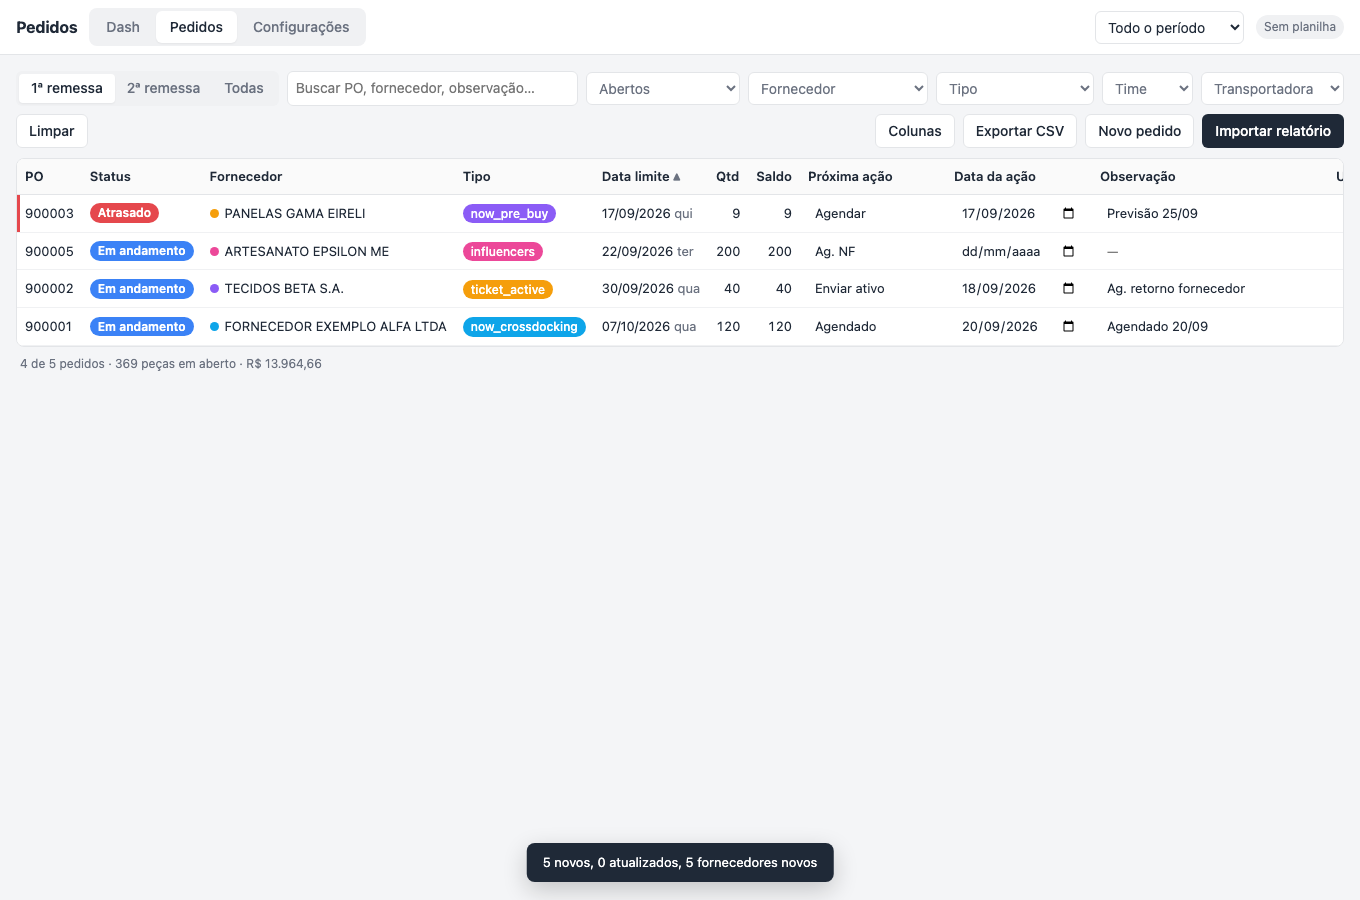
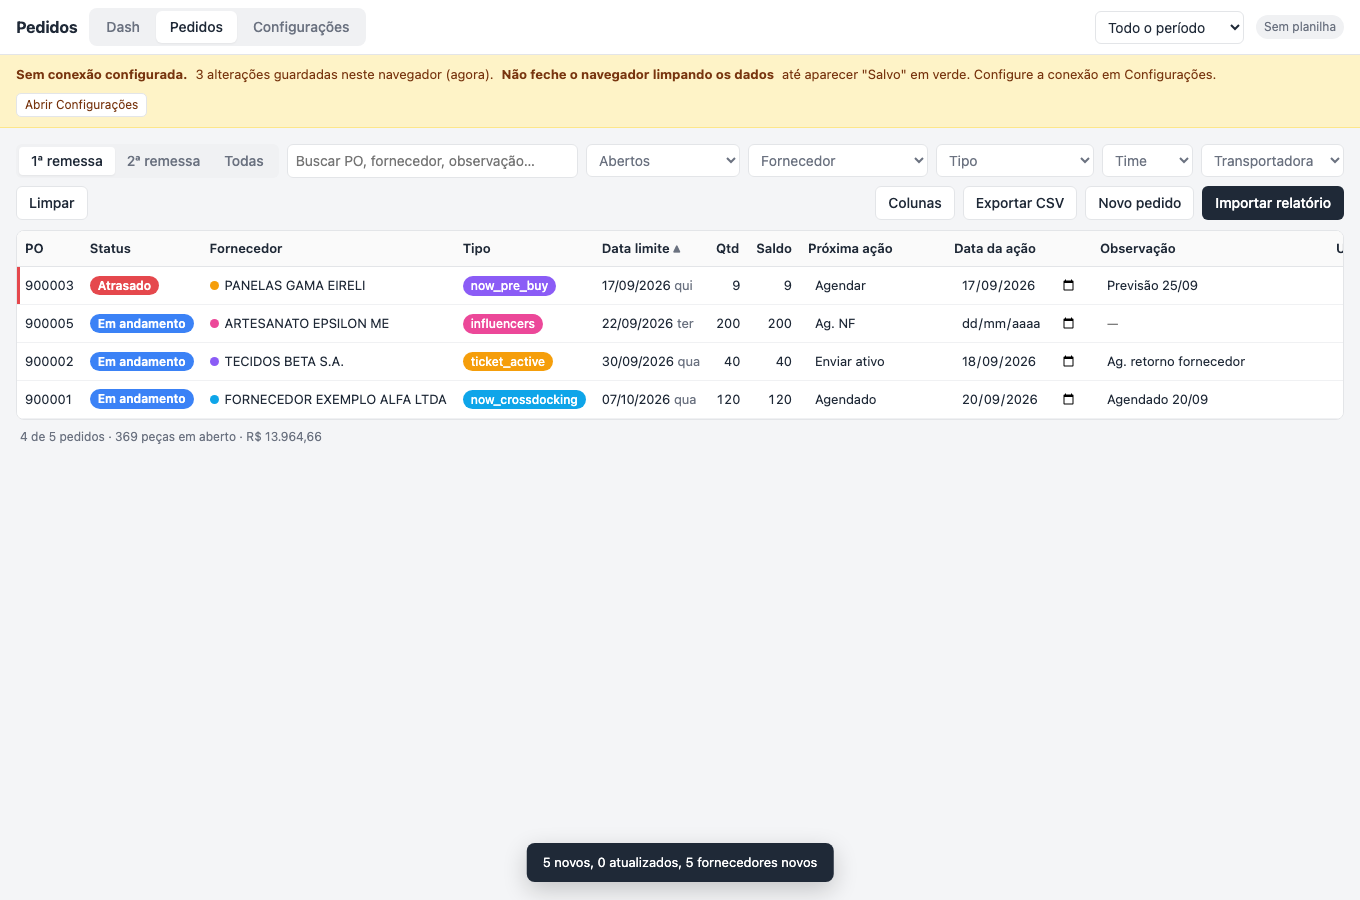
Avisos de sincronização: faixa de pendência/erro com motivo, guarda ao fechar, dica de spam, remetente nomeado
- classificação do erro (rede / chave / planilha / google / outro) com mensagem própria
- faixa no topo após 2 falhas ou 2 min de pendência; botões Tentar agora e Baixar cópia
- aviso do navegador ao fechar com alteração não gravada
- e-mail: name 'Sistema de Pedidos' + replyTo destino; dica de spam no app e no guia
- smoke: servidor HTTP simulado testa fila, POST com chave, leitura e cada tipo de erro (70 testes)

diff --git a/app.js b/app.js
@@ -44,12 +44,55 @@
   // ---------------- API / sincronização ----------------
   const conectado = () => !!(L.apiUrl && L.chave);
   let flushando = false, timerFlush = null;
+  // erros seguidos, tipo do último erro e quando a fila começou a acumular (S.filaDesde persiste)
+  const SY = { erros: 0, tipo: '', msg: '', forcarAviso: false };
+  const LIMIAR = { pendenteMs: 2 * 60000, erros: 2 };
 
   function setSync(cls, txt, title) { const el = $('#sync'); el.className = 'sync ' + cls; el.textContent = txt; el.title = title || ''; }
   function atualizarSync() {
-    if (!conectado()) return setSync('off', 'Sem planilha', 'Configure a conexão em Configurações');
-    if (S.fila.length) return setSync('pendente', S.fila.length + ' pendente' + (S.fila.length > 1 ? 's' : ''), 'Aguardando gravar na planilha');
-    setSync('ok', 'Salvo', S.ultimaSync ? 'Última sincronização: ' + S.ultimaSync : '');
+    if (!conectado()) setSync('off', 'Sem planilha', 'Configure a conexão em Configurações');
+    else if (S.fila.length && SY.erros) setSync('erro', 'Erro ao gravar · ' + S.fila.length + ' pendente' + (S.fila.length > 1 ? 's' : ''), SY.msg);
+    else if (S.fila.length) setSync('pendente', S.fila.length + ' pendente' + (S.fila.length > 1 ? 's' : ''), 'Aguardando gravar na planilha');
+    else setSync('ok', 'Salvo', S.ultimaSync ? 'Última sincronização: ' + S.ultimaSync : '');
+    renderAviso();
+  }
+
+  // rede (sem internet / bloqueio) · chave · planilha (setup) · google (respondeu HTML ou 5xx) · outro
+  function classificarErro(e) {
+    const m = String((e && e.message) || e || '');
+    if (e instanceof TypeError || /fetch|network|Load failed/i.test(m)) return 'rede';
+    if (/Chave inválida/i.test(m)) return 'chave';
+    if (/setup\(\)|não existe/i.test(m)) return 'planilha';
+    if (e instanceof SyntaxError || /JSON|Unexpected token|Resposta inválida/i.test(m)) return 'google';
+    return 'outro';
+  }
+  function registrarErro(e) {
+    SY.erros++; SY.tipo = classificarErro(e); SY.msg = String((e && e.message) || e || '');
+    console.warn('sincronização', SY.tipo, e);
+    if (SY.erros === 1 && S.fila.length) toast('Não consegui gravar na planilha. Guardei aqui e vou tentar de novo sozinho.', true);
+  }
+  function tempoDesde(ts) {
+    const min = Math.round((Date.now() - ts) / 60000);
+    return min < 1 ? 'agora' : min < 60 ? 'há ' + min + ' min' : 'há ' + Math.round(min / 60) + ' h';
+  }
+  function renderAviso() {
+    const el = $('#aviso'); if (!el) return;
+    const n = S.fila.length;
+    let mostrar = false, cls = 'amarelo', html = '';
+    const acoes = '<button class="btn-mini" data-aviso="tentar">Tentar agora</button> <button class="btn-mini" data-aviso="copia">Baixar cópia (CSV)</button>';
+    const guarda = n + (n === 1 ? ' alteração guardada' : ' alterações guardadas') + ' neste navegador' + (S.filaDesde ? ' (' + tempoDesde(S.filaDesde) + ')' : '') + '. <b>Não feche o navegador limpando os dados</b> até aparecer "Salvo" em verde.';
+    if (n && !conectado()) {
+      mostrar = true; html = '<b>Sem conexão configurada.</b> ' + guarda + ' Configure a conexão em Configurações. ' + '<button class="btn-mini" data-aviso="config">Abrir Configurações</button>';
+    } else if (n && (SY.forcarAviso || SY.erros >= LIMIAR.erros || (S.filaDesde && Date.now() - S.filaDesde > LIMIAR.pendenteMs))) {
+      mostrar = true;
+      if (SY.tipo === 'chave') { cls = 'vermelho'; html = '<b>A planilha recusou a chave de acesso.</b> ' + guarda + ' Confira a chave em Configurações → Conexão. <button class="btn-mini" data-aviso="config">Abrir Configurações</button> ' + acoes; }
+      else if (SY.tipo === 'planilha') { cls = 'vermelho'; html = '<b>A planilha não está preparada</b> (' + esc(SY.msg) + '). ' + guarda + ' Fale com um dev. ' + acoes; }
+      else if (SY.tipo === 'google') { cls = 'vermelho'; html = '<b>O Google não respondeu direito.</b> ' + guarda + ' Aguarde alguns minutos e tente novamente. Se continuar, fale com um dev. ' + acoes; }
+      else if (SY.tipo === 'outro') { cls = 'vermelho'; html = '<b>Erro ao gravar:</b> ' + esc(SY.msg) + '. ' + guarda + ' Aguarde e tente novamente. Se continuar, fale com um dev. ' + acoes; }
+      else { html = '<b>Sem internet ou a planilha não respondeu.</b> ' + guarda + ' Reenvio automático a cada 30 s. ' + acoes; }
+    }
+    el.className = 'aviso ' + cls + (mostrar ? '' : ' oculto');
+    if (mostrar) el.innerHTML = html;
   }
 
   async function apiGet(params) {
@@ -80,6 +123,7 @@
       else if (op.acao === 'log') ult.entradas = ult.entradas.concat(op.entradas);
       else S.fila.push(op);
     } else S.fila.push(op);
+    if (!S.filaDesde) S.filaDesde = Date.now();
     salvarLocal(); atualizarSync();
     clearTimeout(timerFlush); timerFlush = setTimeout(flush, 800);
   }
@@ -92,13 +136,12 @@
         const op = S.fila[0]; op.emVoo = true;
         const corpo = Object.assign({}, op); delete corpo.emVoo;
         await apiPost(corpo);
-        S.fila.shift(); salvarLocal(); atualizarSync();
+        S.fila.shift(); SY.erros = 0; SY.forcarAviso = false; salvarLocal(); atualizarSync();
       }
-      S.ultimaSync = new Date().toLocaleString('pt-BR'); salvarLocal(); atualizarSync();
+      S.filaDesde = 0; S.ultimaSync = new Date().toLocaleString('pt-BR'); salvarLocal(); atualizarSync();
     } catch (e) {
       if (S.fila[0]) S.fila[0].emVoo = false;
-      setSync('erro', 'Erro ao gravar', String(e.message || e));
-      console.warn('flush', e);
+      registrarErro(e); atualizarSync();
     } finally { flushando = false; }
   }
 
@@ -119,8 +162,9 @@
       if (!silencioso) toast('Sincronizado com a planilha');
       return true;
     } catch (e) {
+      const tipo = classificarErro(e);
       setSync('erro', 'Erro ao ler', String(e.message || e));
-      if (!silencioso) toast('Não consegui ler a planilha: ' + (e.message || e), true);
+      if (!silencioso) toast(tipo === 'rede' ? 'Sem internet ou a planilha não respondeu. Mostrando a última cópia guardada.' : tipo === 'chave' ? 'A planilha recusou a chave. Confira em Configurações.' : 'Não consegui ler a planilha (' + (e.message || e) + '). Aguarde e tente novamente; se continuar, fale com um dev.', true);
       return false;
     }
   }
@@ -690,7 +734,7 @@
       if (!conectado()) { msg.textContent = 'Configure a conexão primeiro.'; return; }
       if (!S.config.emailDestino) { msg.textContent = 'Informe o e-mail de destino.'; return; }
       msg.textContent = 'Enviando…';
-      try { await flush(); const r = await apiPost({ acao: 'testarEmail' }); msg.textContent = 'Enviado para ' + (r.para || S.config.emailDestino) + '.'; }
+      try { await flush(); const r = await apiPost({ acao: 'testarEmail' }); msg.textContent = 'Enviado para ' + (r.para || S.config.emailDestino) + '. Não apareceu? Olhe a pasta de spam e marque "Não é spam".'; }
       catch (e) { msg.textContent = 'Falhou: ' + (e.message || e); }
     });
     $('#c-acoes').addEventListener('change', e => { S.config.acoes = e.target.value.split('\n').map(s => s.trim()).filter(Boolean); salvarConfig(); renderDatalists(); });
@@ -793,6 +837,17 @@
       localStorage.removeItem(LS); location.reload();
     });
 
+    // aviso de pendências / erro
+    $('#aviso').addEventListener('click', e => {
+      const b = e.target.closest('button[data-aviso]'); if (!b) return;
+      if (b.dataset.aviso === 'tentar') { SY.forcarAviso = true; flush().then(() => { if (!S.fila.length) toast('Tudo gravado na planilha'); }); }
+      else if (b.dataset.aviso === 'copia') exportar(C.ordenar(S.pedidos, 'limite', 'asc', ctx()), 'pedidos-copia');
+      else if (b.dataset.aviso === 'config') { irPara('config'); $('#cfg-conexao').scrollIntoView(); }
+    });
+    $('#sync').addEventListener('click', () => { if (S.fila.length) { SY.forcarAviso = true; renderAviso(); flush(); } });
+    window.addEventListener('beforeunload', e => { if (S.fila.length && conectado()) { e.preventDefault(); e.returnValue = 'Há alterações ainda não gravadas na planilha.'; } });
+    setInterval(renderAviso, 30000);
+
     // sincronização periódica
     window.addEventListener('online', () => flush());
     setInterval(() => { if (S.fila.length) flush(); }, 30000);
@@ -810,5 +865,5 @@
   irPara(['dash', 'pedidos', 'config'].includes(abaInicial) ? abaInicial : (conectado() || S.pedidos.length ? UI.aba : 'config'));
   atualizarSync();
   if (conectado()) sincronizar(true);
-  window.SJO = { S, L, UI, sincronizar, flush }; // pra depuração no console
+  window.SJO = { S, L, UI, SY, LIMIAR, sincronizar, flush, renderAviso }; // pra depuração no console
 })();

diff --git a/tests/smoke.js b/tests/smoke.js
@@ -7,8 +7,16 @@ const CHROME = process.env.CHROME || '/Applications/Google Chrome.app/Contents/M
 const PORTA = 8765, DBG = 9333;
 const MIME = { '.html': 'text/html', '.js': 'text/javascript', '.css': 'text/css', '.csv': 'text/csv' };
 
+const API = { pedidos: [], posts: [] }; // planilha simulada por HTTP (pra testar a sincronização de verdade)
 const servidor = http.createServer((req, res) => {
-  const p = path.join(RAIZ, decodeURIComponent(req.url.split('?')[0]) === '/' ? 'index.html' : decodeURIComponent(req.url.split('?')[0]));
+  const u = decodeURIComponent(req.url.split('?')[0]);
+  if (u === '/api-chave') { res.writeHead(200, { 'Content-Type': 'application/json' }); return res.end(JSON.stringify({ ok: false, erro: 'Chave inválida' })); }
+  if (u === '/api-ok') {
+    if (req.method === 'POST') { let b = ''; req.on('data', d => b += d); req.on('end', () => { API.posts.push(JSON.parse(b)); res.writeHead(200, { 'Content-Type': 'application/json' }); res.end(JSON.stringify({ ok: true })); }); return; }
+    res.writeHead(200, { 'Content-Type': 'application/json' });
+    return res.end(JSON.stringify({ ok: true, pedidos: API.pedidos, fornecedores: [], transportadoras: [], tags: [], config: { emailDestino: 'x@y.z' } }));
+  }
+  const p = path.join(RAIZ, u === '/' ? 'index.html' : u);
   fs.readFile(p, (e, d) => { if (e) { res.writeHead(404); res.end(); return; } res.writeHead(200, { 'Content-Type': MIME[path.extname(p)] || 'text/plain' }); res.end(d); });
 }).listen(PORTA);
 
@@ -154,10 +162,48 @@ async function json(url) { const r = await fetch(url); return r.json(); }
   t('extra visível na tabela', await ev(`document.querySelectorAll('#tabela-corpo input[data-k="x:coluna_nova"]').length`) >= 1);
   t('obs ainda preservada', await ev(`SJO.S.pedidos.find(p=>p.po==='900001').obs`) === 'Agendado 20/09');
 
+  // sincronização: erro de rede → banner amarelo
+  await ev(`SJO.L.apiUrl = 'http://127.0.0.1:1/'; SJO.L.chave = 'x'; SJO.LIMIAR.erros = 1; 'ok'`);
+  await ev(`SJO.flush()`);
+  t('pill erro', /Erro ao gravar/.test(await ev(`document.querySelector('#sync').textContent`)));
+  t('banner rede visível', await ev(`!document.querySelector('#aviso').classList.contains('oculto') && document.querySelector('#aviso').classList.contains('amarelo')`) === true);
+  t('banner texto rede', /Sem internet/.test(await ev(`document.querySelector('#aviso').textContent`)));
+  t('banner diz pra não fechar', /Não feche o navegador/.test(await ev(`document.querySelector('#aviso').textContent`)));
+  // google respondeu HTML → banner vermelho
+  await ev(`SJO.L.apiUrl = 'http://127.0.0.1:' + ${PORTA} + '/index.html'; 'ok'`);
+  await ev(`SJO.flush()`);
+  t('banner google', /Google não respondeu/.test(await ev(`document.querySelector('#aviso').textContent`)) && await ev(`document.querySelector('#aviso').classList.contains('vermelho')`) === true);
+  t('banner tem "fale com um dev"', /fale com um dev/.test(await ev(`document.querySelector('#aviso').textContent`)));
+  // chave inválida
+  await ev(`SJO.L.apiUrl = 'http://127.0.0.1:' + ${PORTA} + '/api-chave'; 'ok'`);
+  await ev(`SJO.flush()`);
+  t('banner chave', /recusou a chave/.test(await ev(`document.querySelector('#aviso').textContent`)));
+  // sem conexão configurada com fila → aviso
+  await ev(`SJO.L.apiUrl = ''; SJO.renderAviso(); 'ok'`);
+  t('banner sem conexão', /Sem conexão configurada/.test(await ev(`document.querySelector('#aviso').textContent`)));
+  // servidor ok → grava tudo, banner some, pill Salvo, POSTs chegaram com a chave
+  const filaAntes = await ev(`SJO.S.fila.length`);
+  await ev(`SJO.L.apiUrl = 'http://127.0.0.1:' + ${PORTA} + '/api-ok'; SJO.L.chave = 'segredo'; 'ok'`);
+  await ev(`SJO.flush()`);
+  t('fila esvaziou', await ev(`SJO.S.fila.length`) === 0 && filaAntes > 0);
+  t('pill Salvo', await ev(`document.querySelector('#sync').textContent`) === 'Salvo');
+  t('banner sumiu', await ev(`document.querySelector('#aviso').classList.contains('oculto')`) === true);
+  t('POSTs chegaram com chave', API.posts.length >= filaAntes && API.posts.every(p => p.chave === 'segredo'));
+  t('upsert enviado com pedidos', API.posts.some(p => p.acao === 'upsertPedidos' && p.pedidos.length >= 5));
+  t('config enviada sem chave/apiUrl', API.posts.filter(p => p.acao === 'salvarConfig').every(p => p.config.apiUrl === undefined && p.config.chave === undefined));
+  // leitura: servidor devolve 1 pedido → substitui local
+  API.pedidos = [{ po: 'SRV1', fornecedor: 'DO SERVIDOR', limite: '2026-12-01', qtd: 3, extras: {} }];
+  t('sincronizar lê do servidor', await ev(`SJO.sincronizar(true)`) === true);
+  t('pedidos vieram do servidor', await ev(`SJO.S.pedidos.length === 1 && SJO.S.pedidos[0].po === 'SRV1'`) === true);
+  t('config do servidor aplicada', await ev(`SJO.S.config.emailDestino`) === 'x@y.z');
+  // volta ao estado sem conexão pra testar persistência
+  await ev(`SJO.L.apiUrl = ''; SJO.L.chave = ''; 'ok'`);
+  await ev(`(function(){ const i = document.querySelector('#tabela-corpo input[data-k="obs"][data-po="SRV1"]'); i.value = 'x'; i.dispatchEvent(new Event('change', {bubbles:true})); return 'ok'; })()`);
+
   // persistência: recarrega a página
   await cmd('Page.navigate', { url: 'http://127.0.0.1:' + PORTA + '/index.html#pedidos' });
   await dorme(1000);
-  t('recarregou com dados', await ev(`SJO.S.pedidos.length`) === 5);
+  t('recarregou com dados', await ev(`SJO.S.pedidos.length`) === 1);
   t('fila preservada', await ev(`SJO.S.fila.length`) >= 1);
 
   t('sem erros de JS', erros.length === 0);

diff --git a/index.html b/index.html
@@ -36,6 +36,8 @@
   </div>
 </header>
 
+<div id="aviso" class="aviso oculto" role="alert"></div>
+
 <main>
   <!-- DASH -->
   <section id="aba-dash" class="painel">
@@ -166,6 +168,7 @@
               <label><input type="checkbox" value="0"> dom</label>
             </div></div>
           <label class="check"><input type="checkbox" id="c-enviarSeVazio"> Mandar e-mail mesmo quando não há nada ("tudo em dia")</label>
+          <p class="mudo">Na primeira vez o e-mail pode cair no spam. Abra a pasta de spam, marque "Não é spam" e, se der, adicione o remetente aos contatos. Depois disso chega normal.</p>
           <div class="acoes-linha">
             <button class="btn-leve" id="btn-previa-email">Ver prévia do e-mail de hoje</button>
             <button class="btn-leve" id="btn-teste-email">Enviar e-mail de teste agora</button>

diff --git a/style.css b/style.css
@@ -31,6 +31,10 @@ code { background: var(--leve); padding: 1px 5px; border-radius: 4px; font-size:
 .sync.off { color: var(--mudo); }
 
 main { padding: 16px; max-width: 1500px; margin: 0 auto; }
+.aviso { position: sticky; top: 49px; z-index: 19; padding: 10px 16px; font-size: 13px; line-height: 1.5; border-bottom: 1px solid transparent; display: flex; gap: 8px; align-items: center; flex-wrap: wrap; }
+.aviso.amarelo { background: #fef3c7; color: #78350f; border-color: #fde68a; }
+.aviso.vermelho { background: #fee2e2; color: #7f1d1d; border-color: #fecaca; }
+.aviso .btn-mini { background: #fff; }
 .painel { display: block; }
 
 /* controles */

diff --git a/docs/02-instalacao.md b/docs/02-instalacao.md
@@ -79,11 +79,17 @@ O sistema tem duas partes:
 | Sintoma | O que fazer |
 |---|---|
 | Canto direito mostra **Sem planilha** | Configurações → Conexão: falta link ou chave. |
-| **Erro ao gravar** / **Erro ao ler** | Passe o mouse em cima pra ver a mensagem. "Chave inválida" = chave errada. Erro de rede = sem internet, o app guarda e reenvia sozinho. |
-| **N pendentes** em amarelo por muito tempo | As alterações estão guardadas no navegador esperando internet. Não feche o navegador limpando dados. Assim que conectar, vai. |
+| **Erro ao gravar** (vermelho) | O app guarda a alteração e tenta de novo sozinho a cada 30 s. Se persistir, aparece uma faixa no topo dizendo o motivo: sem internet (amarela), chave recusada, ou o Google não respondeu (vermelha). Nesse último caso: **aguarde alguns minutos e tente novamente; se continuar, fale com um dev.** |
+| **N pendentes** (amarelo) por mais de 2 minutos | Aparece uma faixa no topo com o número de alterações guardadas só no navegador. **Não feche o navegador limpando os dados** até virar "Salvo" em verde. Botões na faixa: "Tentar agora" e "Baixar cópia (CSV)" pra ter um backup do que está na tela. Se fechar a aba com pendência, o navegador avisa antes. |
+| **Erro ao ler** | Mostra a última cópia guardada. Mesmos motivos acima. |
 | Mudei o script e parou | Depois de editar o código, precisa **Implantar → Gerenciar implantações → editar (lápis) → Versão: Nova → Implantar**. O link continua o mesmo. |
-| E-mail não chega | Configurações → Avisos: está ligado? dia da semana marcado? Teste com "Enviar e-mail de teste". Veja a aba `log` na planilha. Cheque o spam na primeira vez. |
+| E-mail não chega | 1) Olhe a pasta de **spam** e marque "Não é spam"; adicione o remetente aos contatos ("remetente confiável"). 2) Configurações → Avisos: está ligado? dia da semana marcado? 3) "Enviar e-mail de teste". 4) Aba `log` na planilha mostra cada envio. |
 | Quero começar do zero no navegador | Configurações → Dados → Limpar cache. Os dados continuam na planilha. |
+
+## Quem envia o e-mail
+
+O e-mail sai da conta Google que publicou o script (quem fez a Parte 4). Ele chega com o nome "Sistema de Pedidos" e, ao responder, vai pro e-mail de destino configurado.
+Pra sair de outra conta, essa conta precisa abrir o Apps Script da planilha, fazer a própria implantação (Parte 4) e rodar `instalarGatilho` uma vez; e a conta antiga precisa apagar o gatilho dela (relógio na esquerda do editor), senão o e-mail chega em dobro.
 
 ## Segurança, em uma linha
 
